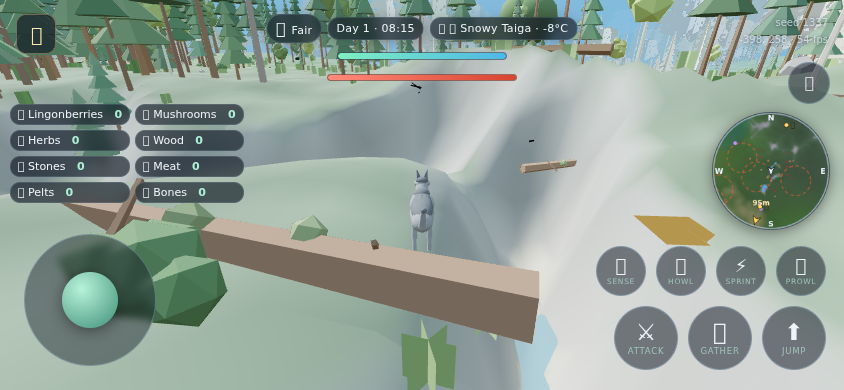
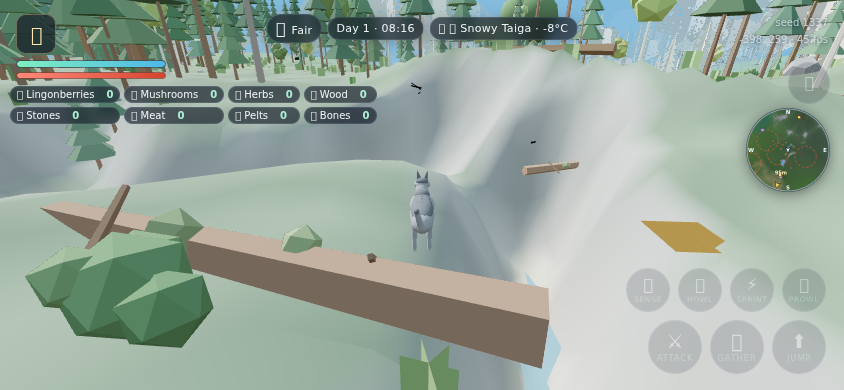
Full-source sync: status bars upper-left, compact small-landscape controls (build b2483b5)

diff --git a/src/style.css b/src/style.css
@@ -17,7 +17,7 @@ body { font-family: 'Segoe UI', system-ui, -apple-system, Roboto, sans-serif; co
 #weatherIcon { font-size: 16px; margin-right: 6px; }
 #topStats { position: absolute; top: 14px; right: 16px; text-align: right; font-size: 11.5px; color: rgba(220, 235, 250, .75); line-height: 1.7; text-shadow: 0 1px 4px rgba(0,0,0,.6); }
 
-#inv { position: absolute; top: 112px; left: 16px; display: flex; flex-direction: column; gap: 7px; align-items: flex-start; }
+#inv { position: absolute; top: 128px; left: 16px; display: flex; flex-direction: column; gap: 7px; align-items: flex-start; }
 .chip {
   background: rgba(10, 18, 30, 0.62); border: 1px solid rgba(180, 220, 255, 0.14); border-radius: 10px;
   padding: 6px 11px; font-size: 13.5px; backdrop-filter: blur(6px); display: flex; align-items: center; gap: 7px;
@@ -53,8 +53,8 @@ body { font-family: 'Segoe UI', system-ui, -apple-system, Roboto, sans-serif; co
 #bigmap { width: min(62vmin, 460px); height: min(62vmin, 460px); border-radius: 10px; display: block; }
 #bigmapLegend { margin-top: 8px; font-size: 10.5px; color: rgba(210, 228, 244, .8); text-align: center; line-height: 1.6; }
 body.touch #minimap { top: 112px; right: 14px; width: 118px; height: 118px; }
-#hpWrap { position: absolute; top: 74px; left: 50%; transform: translateX(-50%);
-  width: 190px; height: 7px; border-radius: 4px; background: rgba(10, 8, 6, 0.55);
+#hpWrap { position: absolute; top: 72px; left: 16px; transform: none;
+  width: 180px; height: 7px; border-radius: 4px; background: rgba(10, 8, 6, 0.55);
   border: 1px solid rgba(255, 120, 100, 0.35); overflow: hidden; }
 #hpFill { height: 100%; width: 100%; border-radius: 3px;
   background: linear-gradient(90deg, #ff8a7a, #d8442f); transition: width 0.2s; }
@@ -82,7 +82,7 @@ body.touch #minimap { top: 112px; right: 14px; width: 118px; height: 118px; }
   background: radial-gradient(ellipse at center, rgba(30, 4, 2, 0.25) 20%, rgba(15, 2, 1, 0.92) 100%);
   opacity: 0; transition: opacity 0.7s; color: #f2c9c0; font-size: 22px; letter-spacing: .04em; }
 #deathOv.show { opacity: 1; }
-#stamWrap { position: absolute; top: 58px; left: 50%; transform: translateX(-50%); width: 210px; height: 8px; border-radius: 6px; background: rgba(8, 14, 24, 0.55); border: 1px solid rgba(180, 220, 255, 0.16); overflow: hidden; }
+#stamWrap { position: absolute; top: 60px; left: 16px; transform: none; width: 180px; height: 8px; border-radius: 6px; background: rgba(8, 14, 24, 0.55); border: 1px solid rgba(180, 220, 255, 0.16); overflow: hidden; }
 #stamFill { height: 100%; width: 100%; border-radius: 6px; background: linear-gradient(90deg, #7ef0c0, #4db8e8); transition: background .3s; }
 
 #prompt {
@@ -151,11 +151,23 @@ body.touch #tPause { display: block; }
 @media (max-width: 860px) {
   .pill { font-size: 11px; padding: 4px 8px; }
   #controls { display: none; }
-  #inv { top: 104px; left: 10px; display: grid; grid-template-columns: repeat(2, auto); gap: 5px; }
+  #inv { top: 126px; left: 10px; display: grid; grid-template-columns: repeat(2, auto); gap: 5px; }
+  /* touch: the tracker is hidden, so the tally rides higher in a tight band — clear of the stick zone */
+  body.touch #inv { top: 86px; grid-template-columns: repeat(4, auto); gap: 4px; }
+  body.touch .chip { font-size: 10px; padding: 2px 6px; }
   .chip { font-size: 11px; padding: 3px 7px; gap: 5px; }
   #topStats { font-size: 10px; }
   #topbar { gap: 6px; }
-  #stamWrap { top: 52px; width: 170px; }
+  #stamWrap { top: 60px; width: 150px; }
+  #hpWrap { top: 72px; width: 150px; }
+}
+@media (max-width: 860px) and (max-height: 400px) {
+  /* small landscape phones: slimmer buttons + minimap so nothing collides */
+  body.touch #minimap { top: 108px; width: 84px; height: 84px; }
+  .tbtn { width: 54px; height: 54px; font-size: 19px; }
+  .tbtn.small { width: 44px; height: 44px; font-size: 16px; }
+  .brow, #btns { gap: 8px; }
+  #btns { bottom: 16px; }
 }
 @media (max-width: 600px) {
   .pill { font-size: 10px; padding: 4px 6px; letter-spacing: 0; }
@@ -234,7 +246,7 @@ body.touch #tPause { display: block; }
   background: rgba(20, 28, 38, .72); color: #ffe9b0; font-size: 19px; border: 1px solid rgba(255, 224, 160, .35);
   cursor: pointer; z-index: 12; pointer-events: auto; }
 #questBtn:active { transform: scale(.94); }
-#questTracker { position: absolute; top: 58px; left: 16px; max-width: 240px; font-size: 11px; line-height: 1.5;
+#questTracker { position: absolute; top: 86px; left: 16px; max-width: 240px; font-size: 11px; line-height: 1.5;
   color: rgba(240, 232, 210, .9); text-shadow: 0 1px 4px rgba(0,0,0,.7); z-index: 11; pointer-events: none; }
 #questTracker .qt-line b { color: #ffd98a; }
 #questLog { position: absolute; top: 60px; left: 16px; width: 300px; max-height: 62vh; overflow-y: auto;

diff --git a/src/p3.js b/src/p3.js
@@ -475,6 +475,7 @@ class Wolf {
     this.atkT = 0;
     this.flyT = 0;
     this.hp = 100; this.maxHp = 100;
+    this.xp = 0; this.level = 1; this.xpNext = 250; this.perks = {}; this.title = 'Young Pup';
     this.lastHurt = -99;
     this.invulnT = 0;
     this.deadT = 0;
@@ -518,7 +519,7 @@ class Wolf {
       if (this.stamina <= 0) { this.stamina = 0; this.exhausted = true; sprint = false; }
     } else if (!this.swimming) {
       // no regen while swimming — the swim block drains it instead
-      this.stamina = Math.min(100, this.stamina + 11 * dt);
+      this.stamina = Math.min(100, this.stamina + 11 * dt * (this.perks.sandStride ? 1.25 : 1));
       if (this.exhausted && this.stamina > 26) this.exhausted = false;
     }
     this.atkCd = Math.max(0, this.atkCd - dt);
@@ -749,7 +750,7 @@ class Wolf {
       const twl = Math.hypot(twx, twz) || 1;
       const facing = (tfx * twx + tfz * twz) / twl;   // 1 = it stares at you, -1 = you're behind it
       const behind = facing < -0.35, front = facing > 0.45;
-      let dmg = behind ? 3 : front ? 1 : 2;
+      let dmg = (behind ? 3 : front ? 1 : 2) + (this.perks.strongJaw ? 1 : 0);
       const unaware = best.aware === undefined || best.aware < 0.25;
       const ambush = behind && unaware;
       if (ambush) dmg += 1;
@@ -847,6 +848,8 @@ class RivalWolf {
     pool.burst(this.pos, 22, 0xffe0a8, 1.6, 3.0, 3.2);
     inv.meat += 1; stats.slain++; updateInv();
     audio.cry(0.7);
+    if (typeof questEvent === 'function') questEvent('rival', { pos: this.pos });
+    if (typeof addXp === 'function') addXp(35);
     toast(`⚔ Bested a ${this.sp.label}! +1 🥩`, true);
     scene.remove(this.model);
     this.pack.memberDown(this);

diff --git a/src/shell.html b/src/shell.html
@@ -42,7 +42,23 @@
       <div id="bigmapLegend">🟡 landmark · 🟣 magic mushroom · 🔴 hunting predator · ⭕ dashed = its territory<br>gold chevron = nearest landmark · white arrow = you · tiny dots = nearby resources (M / Esc closes)</div>
     </div>
   </div>
-  <div id="vignette"></div>
+  <button id="questBtn" title="Quest Log (J)">📜</button>
+    <div id="questTracker"></div>
+    <div id="questLog">
+      <div id="questLogHead"><span>📜 QUEST LOG</span><span id="questX">✕</span></div>
+      <div id="questTabs">
+        <button class="qtab on" data-t="active">Active</button>
+        <button class="qtab" data-t="avail">Available</button>
+        <button class="qtab" data-t="done">Completed</button>
+      </div>
+      <div id="questList"></div>
+    </div>
+    <div id="bossBar"><div id="bossName"></div><div id="bossTrack"><div id="bossFill"></div></div></div>
+    <div id="cineTop" class="cine"></div>
+    <div id="cineBot" class="cine"></div>
+    <div id="spiritCard"></div>
+    <div id="lvCard"></div>
+<div id="vignette"></div>
   <div id="threatArrow"><div class="ta-ring"></div><div class="ta-arrow"></div></div>
   <div id="threatWarn">⚠ Territory</div>
   <div id="deathOv"><div id="deathMsg"></div></div>

diff --git a/README.md b/README.md
@@ -33,7 +33,7 @@ cp ~/.revontulet.keystore android/revontulet.keystore   # never committed
 | **M** | Big centered map — live terrain, landmarks, territories |
 | **K / N / P** | Sound · minimap · pause (+ stats, new world) |
 
-**Touch devices** get an on-screen controller: left **virtual joystick** (partial deflection = quieter stalking), right-side **ATTACK / JUMP / GATHER / SPRINT / HOWL / SENSE / PROWL** buttons, top-right **minimap**, drag to look, pinch to zoom, ⏸ pause. The controls stay out of your way: the joystick is invisible until your thumb lands on it (it shows once when play begins, then fades), and the action buttons rest faint — touching any of them wakes the whole cluster for a moment.
+**Touch devices** get an on-screen controller: left **virtual joystick** (partial deflection = quieter stalking), right-side **ATTACK / JUMP / GATHER / SPRINT / HOWL / SENSE / PROWL** buttons, top-right **minimap**, drag to look, pinch to zoom, ⏸ pause. The controls stay out of your way: the joystick is invisible until your thumb lands on it (it shows once when play begins, then fades), and the action buttons rest faint — touching any of them wakes the whole cluster for a moment. The **HP/stamina bars sit in the upper-left corner** (stacked under the quest book, above the inventory), leaving the whole lower-left free for the stick.
 
 ## 📁 Project structure
 ```
